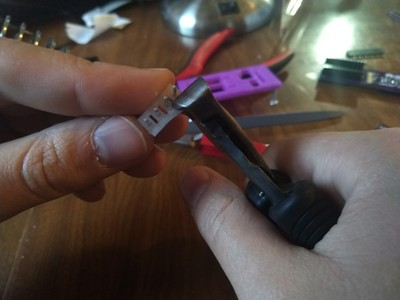
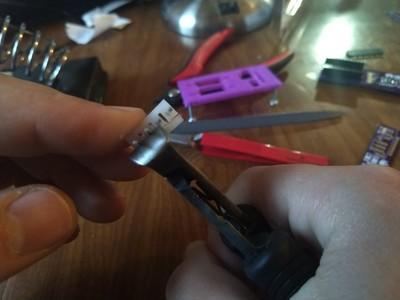
More typos, fix order of clips, rotate overhang

diff --git a/BUILDING.md b/BUILDING.md
@@ -1,6 +1,6 @@
 # Building Controller Pro v0.9
 
-_This document last updated 2019-10-23_
+_This document last updated 2019-10-24_
 
 ## Supplies
 
@@ -54,14 +54,14 @@ Then go ahead and solder them in, just make sure to heat the short pins so there
 
 ### Main board (back)
 
-Next, flip the board over and add the four 8-pin receptacles. If using the jig, insert them into the slots as follows, put the board on, solder, and then pop the receptacles out. You may need to use a hand or clip to hold the board in place against the jig.
+Next, add the four 8-pin receptacles. If using the jig, insert them into the slots as follows, put the board on, solder, and then pop the receptacles out. You may need to use a hand or clip to hold the board in place against the jig.
 
 ![8-pin receptacles in jig](img/sz/400/8pin_headers_frame.jpg)
 ![Board on jig with 8-pin receptacles in place](img/sz/400/8pin_headers_with_board.jpg)
 ![Soldering 8-pin headers in](img/sz/400/8pin_headers_fromfront.jpg)
 ![Removing 8-pin headers](img/sz/400/8pin_headers_remove.jpg)
 
-If not using a jig, it may be easier to solder them from the back, since these are right-angle headers:
+If not using a jig, flip the board over and add the receptacles. It may be easier to solder them from the back, since these are right-angle headers:
 
 ![8-pin receptacles being soldered from the front](img/sz/600/8pin_headers_fromback.jpg)
 
@@ -97,7 +97,7 @@ You should end up with all four 4-pin headers clipped, four 3-pin clipped, and f
 
 ![End result](img/sz/600/headers_clipped.jpg)
 
-Once clipped, you can put them in placed - again, if using the jig, place them long-end down. Otherwise, I advise using an alligator clip/helping hand/etc to hold the headers in place:
+Once clipped, you can put them in place - again, if using the jig, place them long-end down. Otherwise, I advise using an alligator clip/helping hand/etc to hold the headers in place:
 
 ![Headers in place without jig](img/sz/400/headers_in_place.jpg)
 ![Headers in place without jig](img/sz/400/headers_in_frame.jpg)
